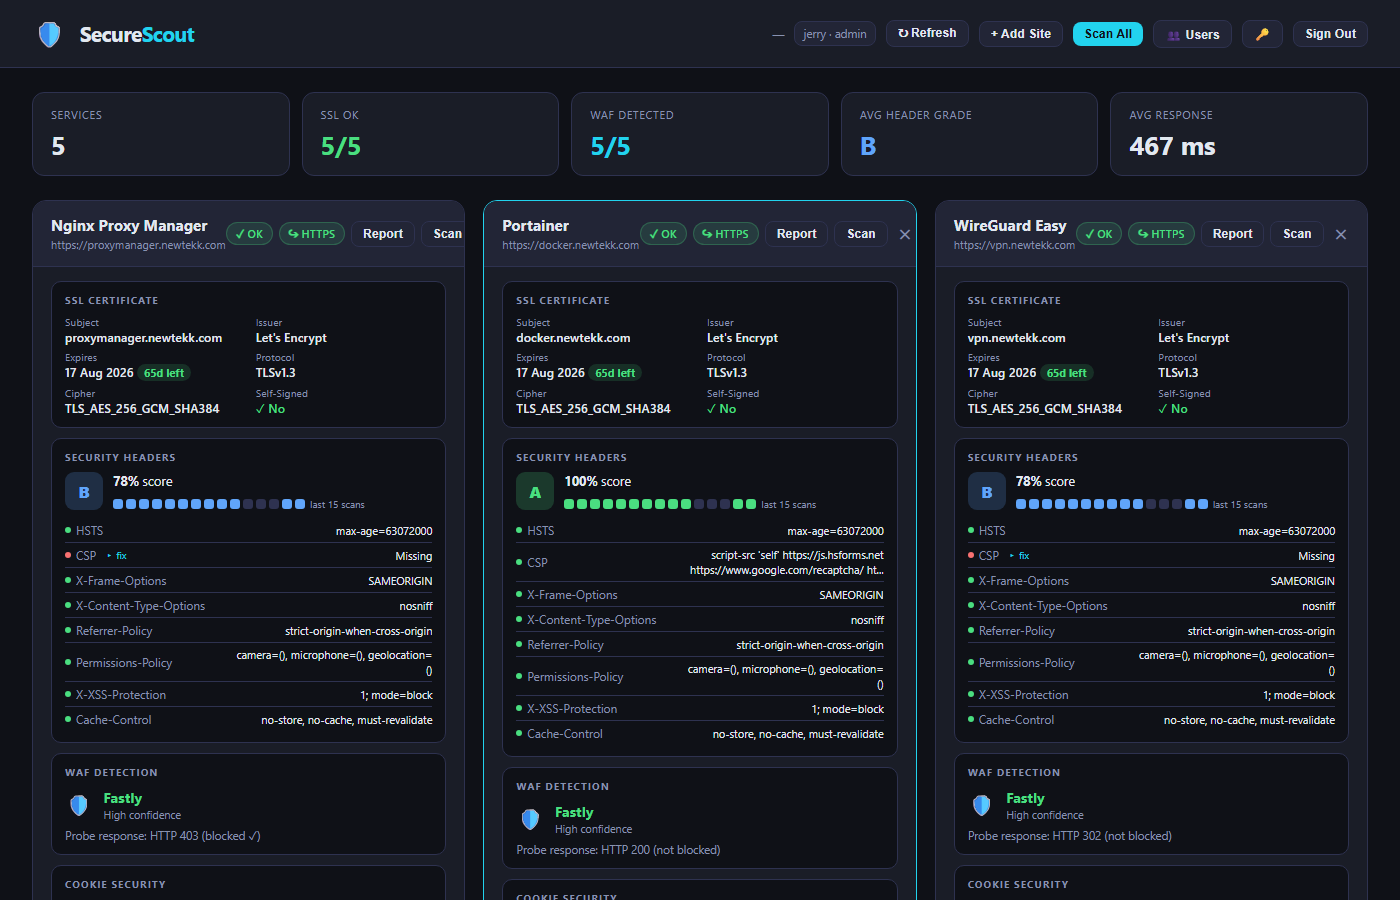
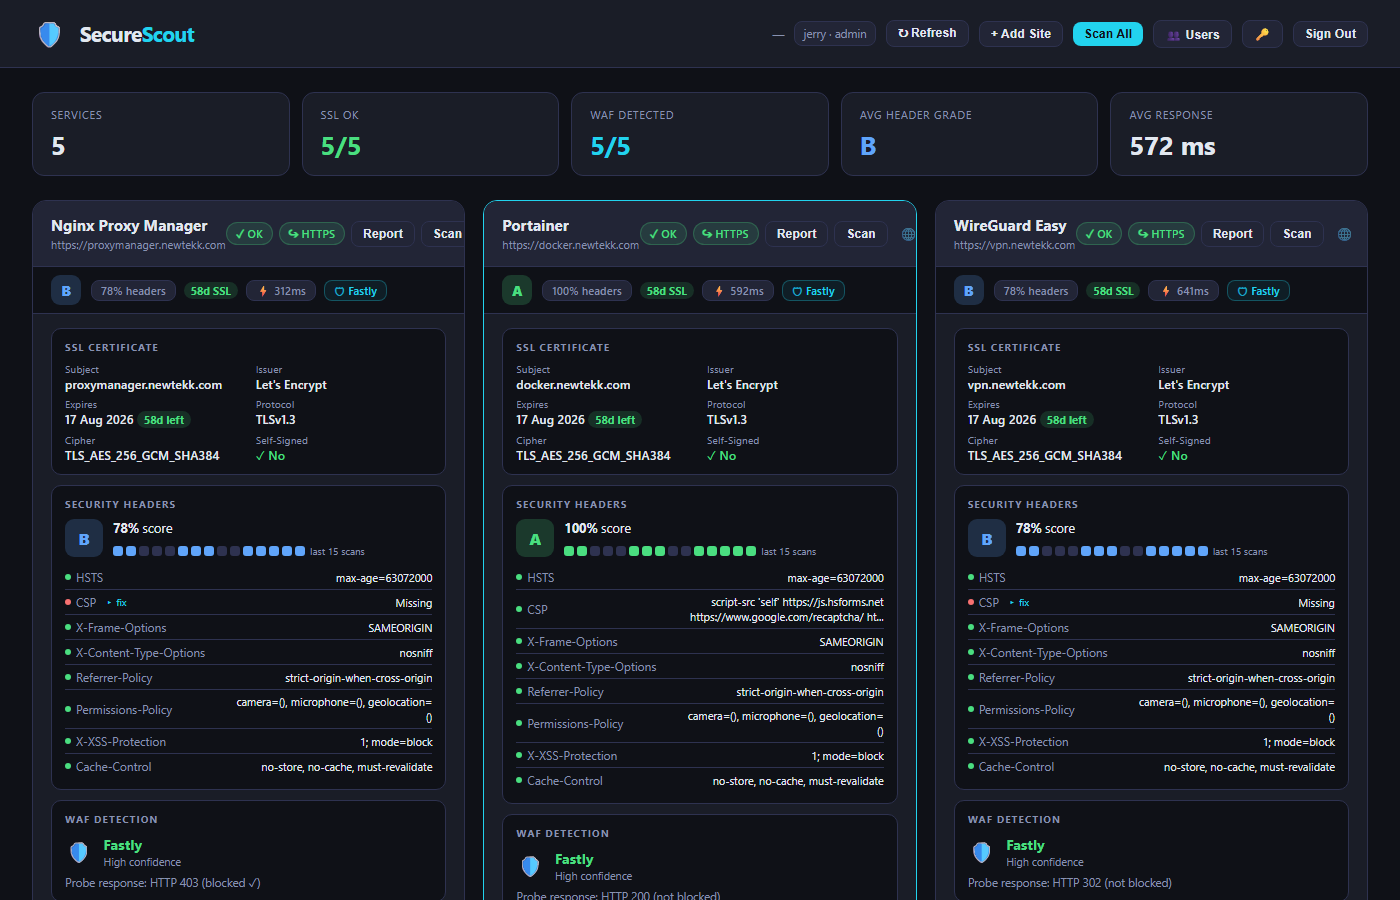
feat: add at-a-glance summary strip to each service card
Each card now shows a compact strip immediately below the title:
grade badge (A/B/C/D/F), header score %, SSL days remaining,
response time, and WAF name — visible without scrolling.

Also updates 02_dashboard.png and adds 12_card_summary.png screenshot.

diff --git a/index.html b/index.html
@@ -114,6 +114,11 @@
   .btn-globe:hover { opacity: 1; background: rgba(34,211,238,0.08); }
   .btn-globe.active { color: var(--cyan); opacity: 1; }
 
+  .card-summary { padding: 8px 18px; display: flex; align-items: center; gap: 8px; flex-wrap: wrap; border-bottom: 1px solid var(--border); min-height: 40px; background: var(--bg); }
+  .sum-chip { padding: 2px 9px; border-radius: 8px; font-size: 0.7rem; font-weight: 600; background: var(--surface2); color: var(--muted); border: 1px solid var(--border); white-space: nowrap; }
+  .sum-chip-waf { color: var(--cyan); border-color: rgba(34,211,238,0.3); background: rgba(34,211,238,0.07); }
+  .sum-chip-nowaf { opacity: 0.4; }
+
   .card-body { padding: 14px 18px; display: grid; gap: 10px; }
 
   .check-section { background: var(--bg); border: 1px solid var(--border); border-radius: 10px; padding: 11px 13px; }
@@ -664,6 +669,7 @@ function cardHTML(name, cardUrl, skeleton, isPublic = false) {
           ${currentUser.role === 'admin' ? `<button class="btn-remove" title="Remove" onclick="removeSite('${cardUrl}','${esc(name)}')">✕</button>` : ''}
         </div>
       </div>
+      <div class="card-summary" id="summary-${key}">${skeleton ? '<div class="skeleton" style="height:10px;width:200px;margin:0"></div>' : ''}</div>
       <div class="card-body" id="body-${key}">${skeleton ? skeletonBody() : ''}</div>
     </div>`;
 }
@@ -747,6 +753,26 @@ function renderOneResult(r) {
     } else {
       redirectBadge.style.display = 'none';
     }
+  }
+
+  const summaryEl = document.getElementById('summary-' + key);
+  if (summaryEl) {
+    const grade = r.securityHeaders?.grade;
+    const score = r.securityHeaders?.score;
+    const days = r.ssl?.ok ? r.ssl.daysLeft : null;
+    const daysCls = days === null ? '' : days > 30 ? 'days-ok' : days > 14 ? 'days-warn' : 'days-crit';
+    const daysTxt = days === null ? null : days < 0 ? 'EXPIRED' : `${days}d SSL`;
+    const waf = r.waf;
+    const rt = r.responseTime;
+    summaryEl.innerHTML = [
+      grade ? `<span class="grade-badge grade-${grade}" style="width:30px;height:30px;font-size:0.88rem;margin-right:2px" title="Header grade">${grade}</span>` : '',
+      score !== undefined ? `<span class="sum-chip">${score}% headers</span>` : '',
+      daysTxt ? `<span class="days-chip ${daysCls}">${daysTxt}</span>` : '',
+      rt ? `<span class="sum-chip">⚡ ${rt}ms</span>` : '',
+      waf?.detected
+        ? `<span class="sum-chip sum-chip-waf" title="${esc(waf.name||'WAF')}">🛡 ${esc((waf.name||'WAF').split(/[\s/]/)[0])}</span>`
+        : `<span class="sum-chip sum-chip-nowaf">No WAF</span>`,
+    ].filter(Boolean).join('');
   }
 
   const hist = historyData[r.url] || [];